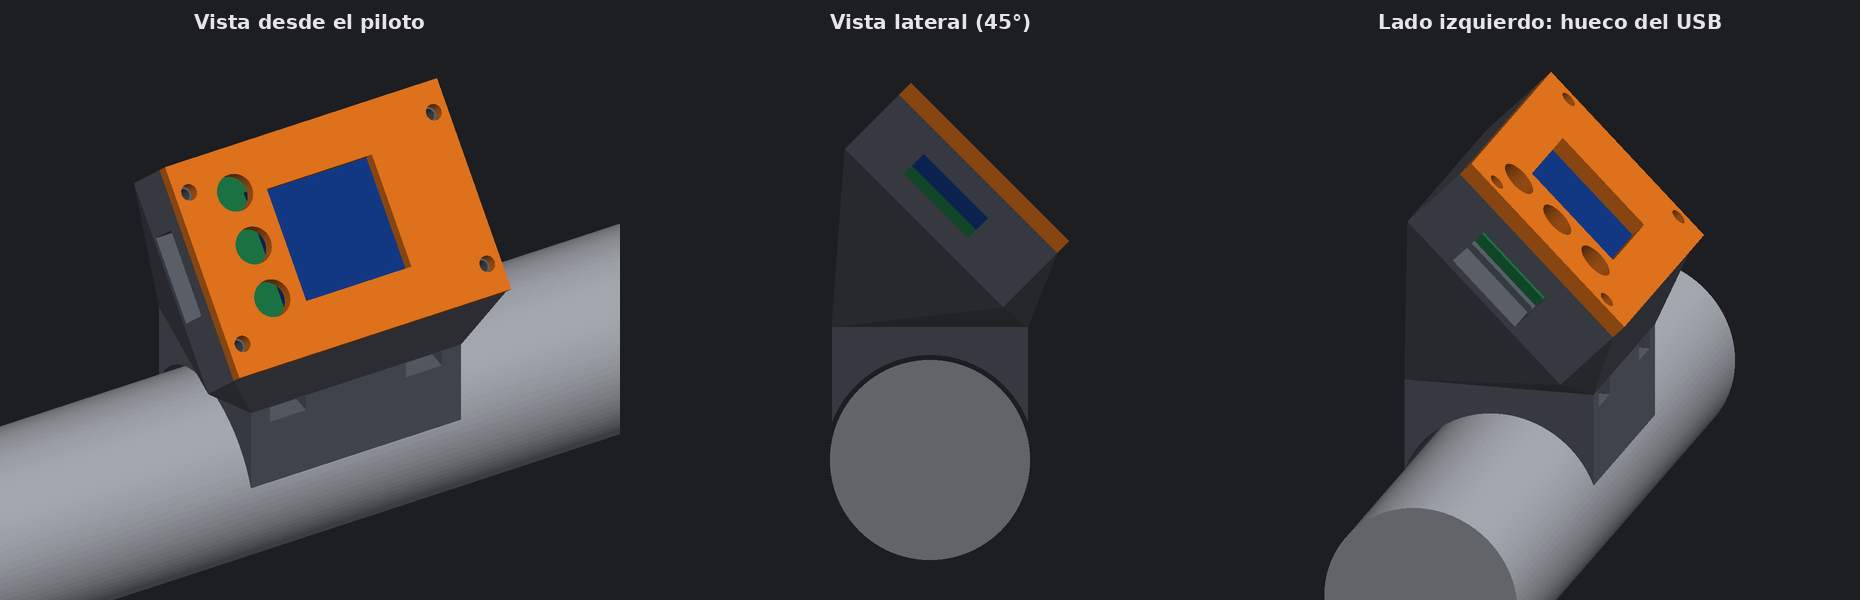
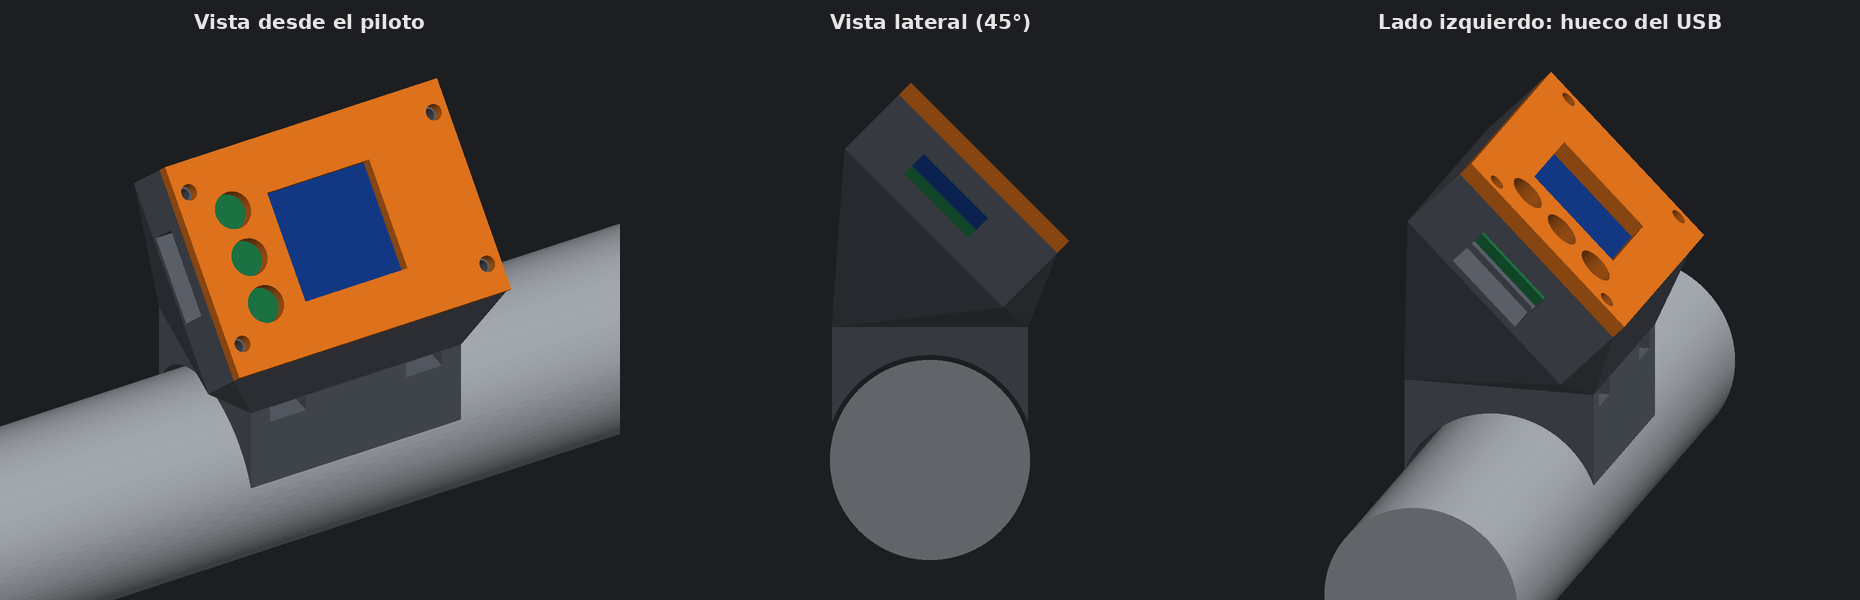
Soporte: tapa corregida con medidas de calibre
Botones cada 7,1 mm centrados en la placa y ventana de 16,5 mm
recentrada sobre el cristal. El cuerpo no cambia.

Claude-Session: https://claude.ai/code/session_01DoHUXaoJBwacrVjXvgwcFQ

diff --git a/soporte/generar_soporte.py b/soporte/generar_soporte.py
@@ -13,7 +13,7 @@ D=lambda a,l: trimesh.boolean.difference([a]+l,engine='manifold')
 # --- parametros (mm)
 RB=14.3          # radio manillar 28.6
 GOMA=0.7         # holgura para goma
-PX,PY,PT=34.3,25.4,6.5   # placa: largo, ancho, grosor total estimado
+PX,PY,PT=34.5,25.43,6.5   # medido con calibre   # placa: largo, ancho, grosor total estimado
 W,H,Dp=44.0,32.0,11.0    # caja exterior
 TAPA=2.4
 ANG=np.radians(45); CY,CZ=-3.0,37.0
@@ -24,7 +24,7 @@ silla=B(-17,17,-14,14,3,21)
 losa=B(-17,17,-14,14,19,21)
 caja=L(B(-W/2,W/2,-H/2,H/2,-Dp/2,Dp/2))
 cuello=trimesh.convex.convex_hull(np.vstack([losa.vertices,caja.vertices]))
-cav=U([L(B(-(PX+0.9)/2,(PX+0.9)/2,-(PY+0.8)/2,(PY+0.8)/2,-Dp/2+2,Dp/2+1)),L(B(-16.5,-9,12,14.4,-Dp/2+2,Dp/2+1))])
+cav=U([L(B(-17.6,17.6,-13.1,13.1,-Dp/2+2,Dp/2+1)),L(B(-16.5,-9,12,14.4,-Dp/2+2,Dp/2+1))])
 usb=L(B(-W/2-1,-15,-5.5,7.5,-4.5,2.0))
 tornillos=[L(cylZ(0.9,-2,Dp/2+1,x=sx*19.8,y=sy*11.5)) for sx in(-1,1) for sy in(-1,1)]
 barra=cylX(RB+GOMA,-40,40)
@@ -32,9 +32,9 @@ tun=[B(x-2.9,x+2.9,-30,30,16.3,18.9) for x in(-11,11)]
 cuerpo=D(U([cuello,silla]),[barra,cav,usb]+tun+tornillos)
 # --- tapa con ventana
 tapa0=B(-W/2,W/2,-H/2,H/2,Dp/2,Dp/2+TAPA)
-vent=B(-8.35,8.65,-8.5,8.5,Dp/2-1,Dp/2+TAPA+1)
+vent=B(-8.5,8.0,-8.55,7.95,Dp/2-1,Dp/2+TAPA+1)
 ag=[cylZ(1.2,Dp/2-1,Dp/2+TAPA+1,x=sx*19.8,y=sy*11.5) for sx in(-1,1) for sy in(-1,1)]
-bot=[cylZ(2.75,Dp/2-1,Dp/2+TAPA+1,x=-13.15,y=by) for by in(9.4,1.4,-6.6)]
+bot=[cylZ(2.75,Dp/2-1,Dp/2+TAPA+1,x=-14.35,y=by) for by in(7.1,0.0,-7.1)]
 tapaL=D(tapa0,[vent]+ag+bot)
 tapa=L(tapaL)
 cuerpo.export('soporte/soporte_cuerpo.stl')
@@ -43,7 +43,7 @@ tp=tapaL.copy(); tp.apply_translation([0,0,-Dp/2]); tp.export('soporte/soporte_t
 print('estancos:',cuerpo.is_watertight,tapa.is_watertight,'| cuerpo',cuerpo.extents.round(1),'tapa',tp.extents.round(1))
 # --- piezas de ambiente para el dibujo
 pcb=L(B(-PX/2,PX/2,-PY/2,PY/2,-Dp/2+3.5,-Dp/2+5.1))
-lcd=L(B(-8.6,9.4,-9.5,9.5,-Dp/2+5.1,Dp/2-0.3))
+lcd=L(B(-9.06,12.3,-9.12,8.51,-Dp/2+5.1,Dp/2-0.3))
 man=cylX(RB,-60,60)
 # --- rasterizador simple con z-buffer
 def render(objs,az,el,size=(620,560),scale=7.0,center=(0,0,20)):

diff --git a/docs/SOPORTE.md b/docs/SOPORTE.md
@@ -24,8 +24,8 @@ Soporte impreso en 3D para fijar la placa al centro del manillar con la pantalla
 | Ancho ocupado en el tubo | 34 mm |
 | Túneles para bridas | 2, para bridas de hasta 4,8 mm |
 | Hueco de la placa | 35,2 × 26,2 mm, 9 mm de fondo |
-| Ventana de pantalla | 17 × 17 mm |
-| Agujeros de botones | 3 de 5,5 mm, separados 8 mm |
+| Ventana de pantalla | 16,5 × 16,5 mm, centrada en la zona negra del cristal |
+| Agujeros de botones | 3 de 5,5 mm, separados 7,1 mm y centrados en la placa |
 | Hueco del USB-C | 13 × 6,5 mm, en el lateral izquierdo |
 | Tornillos de la tapa | 4 × M2, agujero de 1,8 mm en el cuerpo y 2,4 mm en la tapa |
 
@@ -33,7 +33,8 @@ La placa va apaisada, con los botones a la izquierda y el cable USB saliendo por
 
 ## Medidas sin confirmar
 
-- **Ventana, botones y USB**: su posición se tomó de fotos de la placa junto a una regla, con un error de alrededor de 1 mm.
+- **Ventana y botones**: recolocados con medidas de calibre (placa de 34,50 × 25,43 mm, cristal de 17,63 × 21,38 mm, botones cada 7,1 mm). La distancia de los botones al borde (2,9 mm) sigue saliendo de fotos. Esta tapa corregida está pendiente de imprimir y probar.
+- **USB**: su posición se tomó de fotos de la placa junto a una regla, con un error de alrededor de 1 mm.
 - **Grosor de la placa**: se supone que cabe en 9 mm de fondo; el fabricante no publica ese dato.
 - **Diámetro del manillar**: se usa el valor estándar de 28,6 mm, sin medirlo en la moto.
 

diff --git a/CHANGELOG.md b/CHANGELOG.md
@@ -1,5 +1,9 @@
 # Historial de cambios
 
+## 0.2.1 – 2026-10-03
+
+- Tapa del soporte corregida con medidas de calibre: botones cada 7,1 mm y ventana de 16,5 mm recentrada. El cuerpo no cambia.
+
 ## 0.2.0 – 2026-10-03
 
 - Nueva pantalla: arco de inclinación con marcas de máximo y barras laterales de frenada y aceleración.
